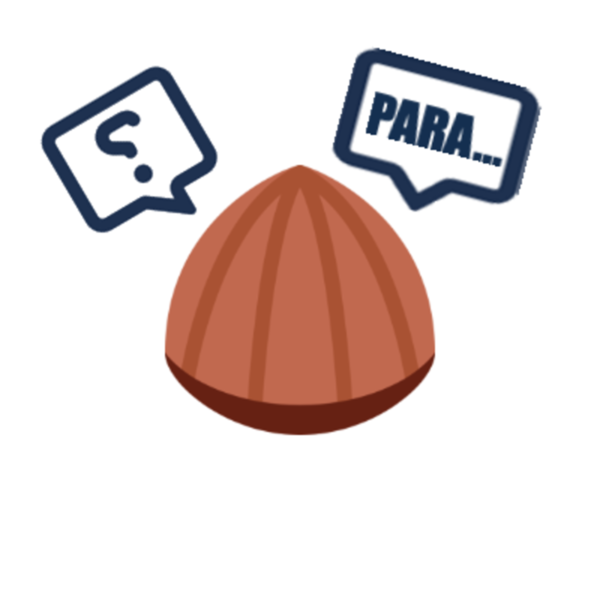
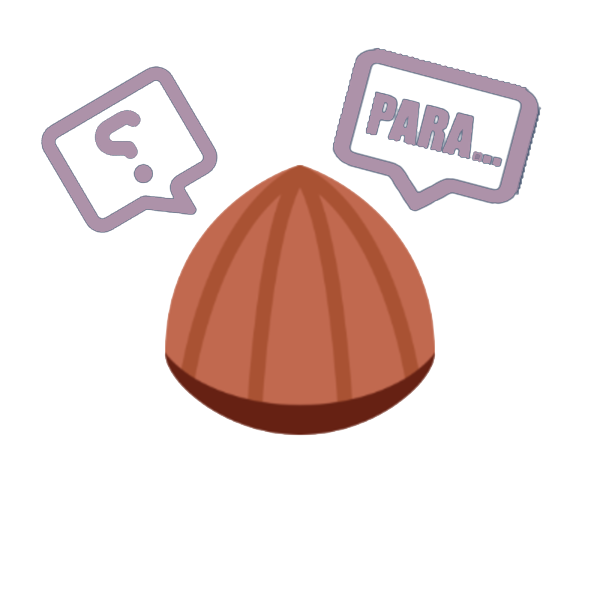
rama_central

Changed region(s): [[0.54, 0.06, 0.9, 0.36], [0.06, 0.09, 0.36, 0.39]]

diff --git a/HTML/tartour.html b/HTML/tartour.html
@@ -51,9 +51,102 @@
 
 <!--BODY-->
 <body>
-    <div class="row 2">
-        <h1>soy el tartour</h1>
-        <p>soy el tartour</p>
+    <div class="row-titulo-tartour">
+        <h6>Comenzaremos viendo el Estado de costos, sus elementos y componentes.</h6>
+    </div>
+
+    <div>
+            <!--columa texto -->
+        <div class="col-12 columna-fija">
+            <div id="item-1">
+              <h3>Estado de Costo</h3>
+              <p>Lorem ipsum dolor sit amet consectetur adipisicing elit. Voluptas libero quia earum! Incidunt laudantium laborum natus in illum porro rem adipisci minima culpa, expedita laboriosam maxime doloremque quo ab magnam?
+              Iste earum placeat libero delectus rem exercitationem modi sit in. Iure ipsam, obcaecati sint ratione dolor nam a accusamus laboriosam. Quasi optio provident hic dolorem at, perspiciatis aliquam obcaecati esse?
+              Accusamus eius laborum reiciendis incidunt doloribus voluptate, iure asperiores magnam dicta sapiente aspernatur laudantium pariatur! Iste quis reiciendis esse odit quo nihil perspiciatis, ad consectetur sapiente, tempore rem est optio.</p>
+            </div>
+
+            <div id="item-1-1">
+              <h5>Costo Primo</h5>
+              <p>Lorem ipsum dolor sit amet consectetur, adipisicing elit. Laborum, dolorum doloremque ut in nisi eveniet sed voluptatem eos nesciunt rerum qui nostrum ipsa adipisci, labore blanditiis! Minima molestias fugit voluptatum culpa voluptates ullam tempore, fugiat, quaerat adipisci laboriosam optio id!</p>
+            </div>
+
+            <div id="item-1-2">
+              <h5>Costo de Coversión</h5>
+              <p>Lorem ipsum dolor sit amet, consectetur adipisicing elit. Maxime ab ratione facilis optio adipisci maiores amet dolorem sint modi consequuntur nihil deserunt, distinctio atque laborum quas eius voluptatum molestias aperiam?</p>
+            </div>
+
+            <div id="item-1-3">
+              <h5>Costo Producción</h5>
+              <p>Lorem ipsum dolor, sit amet consectetur adipisicing elit. Alias nesciunt sit porro, hic perferendis quod asperiores culpa possimus eveniet ab!</p>
+            </div>
+
+            <div id="item-1-4">
+              <h5>Costo de Productos Terminados</h5>
+              <p>Lorem ipsum dolor, sit amet consectetur adipisicing elit. Alias nesciunt sit porro, hic perferendis quod asperiores culpa possimus eveniet ab!</p>
+            </div>
+
+            <div id="item-1-5">
+              <h5>CMV</h5>
+              <p>Lorem ipsum dolor, sit amet consectetur adipisicing elit. Alias nesciunt sit porro, hic perferendis quod asperiores culpa possimus eveniet ab!</p>
+            </div>
+
+            <div id="item-2">
+              <h3>Materia Prima</h3>
+              <p>Lorem ipsum, dolor sit amet consectetur adipisicing elit. Reprehenderit itaque eaque adipisci in distinctio amet exercitationem doloribus, optio architecto et qui accusantium repellat placeat, tempora molestiae esse cupiditate aut iste totam modi omnis natus? Dignissimos ad a ab quidem impedit.</p>
+            </div>
+
+            <div id="item-2-1">
+              <h5>Cantidad Neta</h5>
+              <p>Lorem ipsum dolor, sit amet consectetur adipisicing elit. Alias nesciunt sit porro, hic perferendis quod asperiores culpa possimus eveniet ab!</p>
+            </div>
+
+            <div id="item-2-2">
+              <h5>Cantidad Necesaria</h5>
+              <p>Lorem ipsum dolor, sit amet consectetur adipisicing elit. Alias nesciunt sit porro, hic perferendis quod asperiores culpa possimus eveniet ab!</p>
+            </div>
+
+            <div id="item-3">
+              <h3>Mano de Obra</h3>
+              <p>Lorem ipsum dolor sit.</p>
+            </div>
+
+            <div id="item-3-1">
+              <h5>Directa</h5>
+              <p>Lorem ipsum dolor sit amet consectetur adipisicing elit. Optio, impedit nulla! Voluptatibus repudiandae nobis vel magni pariatur similique, unde reprehenderit excepturi, earum inventore facere asperiores cumque omnis non!</p>
+            </div>
+
+            <div id="item-3-2">
+              <h5>Indirecta</h5>
+              <p>Lorem ipsum dolor sit amet consectetur adipisicing elit. Impedit recusandae libero sit distinctio eum laboriosam architecto saepe deleniti! Totam, nemo.</p>
+            </div>
+
+            <div id="item-4">
+              <h3>Carga Fabril</h3>
+              <p>Lorem ipsum dolor sit amet consectetur adipisicing elit. Voluptas libero quia earum! Incidunt laudantium laborum natus in illum porro rem adipisci minima culpa, expedita laboriosam maxime doloremque quo ab magnam?
+              Iste earum placeat libero delectus rem exercitationem modi sit in. Iure ipsam, obcaecati sint ratione dolor nam a accusamus laboriosam. Quasi optio provident hic dolorem at, perspiciatis aliquam obcaecati esse?
+              Accusamus eius laborum reiciendis incidunt doloribus voluptate, iure asperiores magnam dicta sapiente aspernatur laudantium pariatur! Iste quis reiciendis esse odit quo nihil perspiciatis, ad consectetur sapiente, tempore rem est optio.</p>
+            </div>
+
+            <div id="item-1-1 CP-tartour">
+              <h5>Distribución Primaria</h5>
+              <p>Lorem ipsum dolor sit amet consectetur, adipisicing elit. Laborum, dolorum doloremque ut in nisi eveniet sed voluptatem eos nesciunt rerum qui nostrum ipsa adipisci, labore blanditiis! Minima molestias fugit voluptatum culpa voluptates ullam tempore, fugiat, quaerat adipisci laboriosam optio id!</p>
+            </div>
+
+            <div id="item-1-2">
+              <h5>Distribución Secundaria</h5>
+              <p>Lorem ipsum dolor sit amet, consectetur adipisicing elit. Maxime ab ratione facilis optio adipisci maiores amet dolorem sint modi consequuntur nihil deserunt, distinctio atque laborum quas eius voluptatum molestias aperiam?</p>
+            </div>
+
+            <div id="item-1-3">
+              <h5>Distribución Terciaria</h5>
+              <p>Lorem ipsum dolor, sit amet consectetur adipisicing elit. Alias nesciunt sit porro, hic perferendis quod asperiores culpa possimus eveniet ab!</p>
+            </div>
+
+
+          </div>
+        </div>
+      </div>
+
     </div>
 
 <!--JAVASCRIPT-->

diff --git a/CSS/style.css b/CSS/style.css
@@ -173,13 +173,12 @@ header div {
 /*FUNCION*/
 #fun-row {
     display: flex;
-    justify-content: space-around;
+    justify-content: space-between;
     list-style: none;
     margin-bottom: 1px;
     padding-top: 10px;
     text-shadow: 0px 0px 1px #d1d1d1 !important;
     background: transparent !important;
-
 }
 
 .produccion {
@@ -388,8 +387,9 @@ header div {
 
 
 /*LINK DE REDIRECCIÓN*/
-.much-inf {
+.mucha-inf {
     display: flex;
+    flex-direction: column;
     text-align: center;
     margin-top: 9px;
     margin-bottom: 9px;
@@ -411,8 +411,7 @@ header div {
     "sec1 sec2 sec3"
     "div1 div2 fa-2x";
     background-color: #FEEAFA;
-
-
+    margin-top: 10px;
 }
 
 .sec1 {
@@ -541,6 +540,37 @@ header div {
     justify-content: center;
 }
 
+/*TARTOUR
+Acá comienza el espacio de trabajo CSS de HTML.TARTOUR
+*/
+.columna-fija {
+    display: flex;
+    flex-direction: column;
+    text-align: center;
+    position: center;
+    list-style: none;
+    text-decoration: none;
+    color: #735d78 !important;
+    border-bottom: 1px solid  #735d78;
+    margin-bottom: 10px;
+
+}
+
+.row-titulo-tartour {
+    display: flex;
+    margin-bottom: 10px;
+    margin-top: 70px;
+    margin-left: 10px;
+    margin-right: 10px;
+}
+
+/*LOS TRONCALES DEL MAQUETADO ESTAN ACÁ*/
+
+
+/* DESCRIPCIONES*/
+
+
+
 
 /* MARGENES GENERALES */
 p {
@@ -549,4 +579,11 @@ p {
     margin-bottom: 0px;
     margin-right: 0px;
     text-align: left;
+}
+
+/*PSEUDOCLASES*/
+
+a:active {
+    font-weight: bold;
+    border-radius: 0.55rem;
 }

diff --git a/index.html b/index.html
@@ -152,19 +152,19 @@
                 <div id="row-total">
                     <div class="cg">Control de Gestión: </div>
                       <div class="vr-sm-fj-sf-mxt">
-                        <li>Variables</li>
-                        <li>Semivariables</li>
-                        <li>Fijos</li>
-                        <li>Semifijos</li>
-                        <li>Mixtos</li>
+                        <li><a>Variables</a></li>
+                        <li><a>Semivariables</a></li>
+                        <li><a>Fijos</a></li>
+                        <li><a>Semifijos</a></li>
+                        <li><a>Mixtos</a></li>
                      </div>
                     <div class="td-">Toma de Decisiones: </div>
                      <div class="vra-fij">
-                         <li>Variables</li>
-                         <li>Fijos</li>
+                         <li><a>Variables</a></li>
+                         <li><a>Fijos</a></li>
                          <ul class="dif-perm">
-                            <li>Diferenciales</li>
-                            <li>Permanentes</li>
+                            <li><a>Diferenciales</a></li>
+                            <li><a>Permanentes</a></li>
                          </ul>
                      </div>
                 </div>
